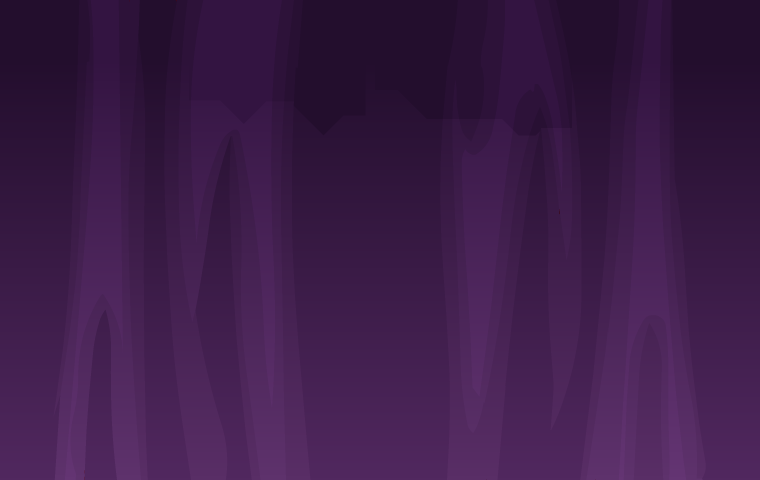
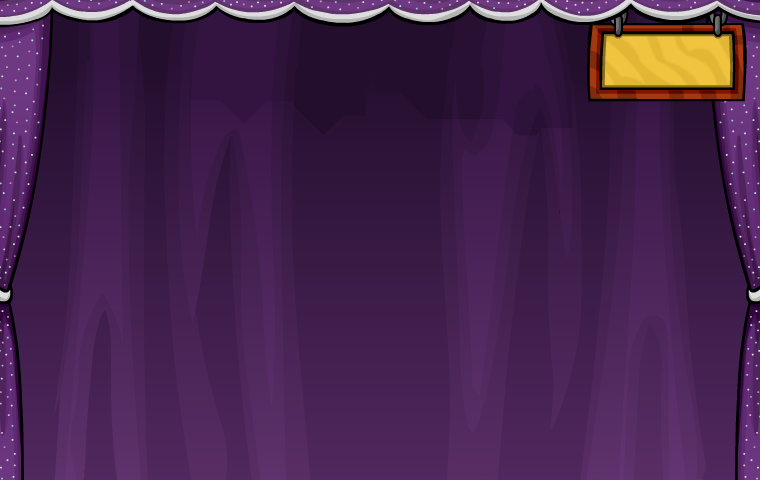
Nueva pantalla de introducción
* Nuevas imágenes de fondo con el marco completo.
* Imágenes de mejor calidad para los botones.
* Nueva enumeración para códigos de salida.
* Pequeña reestructuración de main.

Changed region(s): [[0.0, 0.0, 1.0, 1.0]]

diff --git a/src/paddle.c b/src/paddle.c
@@ -45,11 +45,11 @@
 enum {
 	IMG_TITLE,
 	
-	IMG_BACKGROUND_NORMAL,
+	IMG_TITLE_OPENING,
 	
+	IMG_BACKGROUND_NORMAL,
 	IMG_BACKGROUND_NEW_0,
 	IMG_BACKGROUND_NEW_1,
-	
 	IMG_BACKGROUND_FAIL_0,
 	IMG_BACKGROUND_FAIL_1,
 	
@@ -160,11 +160,11 @@ enum {
 const char *images_names[NUM_IMAGES] = {
 	GAMEDATA_DIR "images/title.png",
 	
-	GAMEDATA_DIR "images/normal.png",
+	GAMEDATA_DIR "images/title-opening.png",
 	
+	GAMEDATA_DIR "images/normal.png",
 	GAMEDATA_DIR "images/new-0.png",
 	GAMEDATA_DIR "images/new-1.png",
-	
 	GAMEDATA_DIR "images/fail-0.png",
 	GAMEDATA_DIR "images/fail-1.png",
 	
@@ -409,6 +409,13 @@ enum {
 	BUTTON_CLOSE
 };
 
+/* Codigos de salida */
+enum {
+	GAME_NONE = 0, /* No usado */
+	GAME_CONTINUE,
+	GAME_QUIT
+};
+
 /* La estructura principal de un puffle */
 typedef struct _Puffle{
 	struct _Puffle *next;
@@ -423,6 +430,7 @@ typedef struct _Puffle{
 } Puffle;
 
 /* Prototipos de función */
+int game_intro (void);
 int game_loop (void);
 void setup (void);
 SDL_Surface * set_video_mode(unsigned flags);
@@ -438,19 +446,110 @@ Puffle *last_puffle = NULL;
 int num_rects;
 int background_frame = 0;
 int use_sound;
+SDL_Surface *grey_screen;
 
 Mix_Chunk * sounds[NUM_SOUNDS];
 Mix_Music * mus_carnie;
 
 int main (int argc, char *argv[]) {
-	int done;
-	
 	setup ();
-	
-	done = game_loop ();
+	do {
+		if (game_intro () == GAME_QUIT) break;
+		if (game_loop () == GAME_QUIT) break;
+		/* TODO: Pantalla de "gracias por jugar */
+	} while (1 == 0);
 	
 	SDL_Quit ();
-	return 0;
+	return EXIT_SUCCESS;
+}
+
+int game_intro (void) {
+	int done;
+	SDL_Event event;
+	SDLKey key;
+	SDL_Rect dest_rect;
+	Uint32 last_time, now_time;
+	int last_button = 0, button_frame, button_pressed;
+	int handposx, handposy;
+	
+	/* Iniciar la música */
+	if (use_sound) {
+		Mix_PlayMusic (mus_carnie, -1);
+	}
+	
+	SDL_BlitSurface (images [IMG_BACKGROUND_NORMAL], NULL, screen, NULL);
+	
+	SDL_BlitSurface (grey_screen, NULL, screen, NULL);
+	
+	dest_rect.x = 107;
+	dest_rect.y = 17;
+	dest_rect.h = images [IMG_TITLE_OPENING]->h;
+	dest_rect.w = images [IMG_TITLE_OPENING]->w;
+	
+	SDL_BlitSurface (images [IMG_TITLE_OPENING], NULL, screen, &dest_rect);
+	
+	SDL_EventState (SDL_MOUSEMOTION, SDL_IGNORE);
+	
+	do {
+		last_time = SDL_GetTicks ();
+		
+		while (SDL_PollEvent(&event) > 0) {
+			/* fprintf (stdout, "Evento: %i\n", event.type);*/
+			switch (event.type) {
+				case SDL_QUIT:
+					/* Vamos a cerrar la aplicación */
+					done = GAME_QUIT;
+					break;
+				case SDL_MOUSEBUTTONDOWN:
+					/* Tengo un Mouse Down */
+					if (event.button.button == SDL_BUTTON_RIGHT) done = GAME_CONTINUE;
+					if (event.button.button != SDL_BUTTON_LEFT) break;
+					if (last_button == BUTTON_NONE) last_button = map_button_in_game (event.button.x, event.button.y);
+					break;
+				case SDL_MOUSEBUTTONUP:
+					/* Tengo un mouse Up */
+					if (event.button.button != SDL_BUTTON_LEFT) break;
+					if (last_button != BUTTON_NONE) {
+						if (map_button_in_game (event.button.x, event.button.y) == last_button) {
+							/* Mouse down y mouse up sobre el mismo botón */
+							/* Utilizar switch para muchos botones */
+							if (last_button == BUTTON_CLOSE) {
+								done = GAME_QUIT;
+							}
+							button_pressed = last_button;
+						}
+						last_button = BUTTON_NONE;
+					}
+					break;
+			}
+		}
+		
+		SDL_GetMouseState (&handposx, &handposy);
+		/* Dibujar el botón de cierre */
+		/* Posición original X:734, Y:22
+		 * Centro +- 14.05 */
+		dest_rect.x = 720; dest_rect.y = 8; dest_rect.h = images[button_frame]->h; dest_rect.w = images[button_frame]->w;
+		if (button_pressed == BUTTON_CLOSE || (last_button == BUTTON_CLOSE && map_button_in_game (handposx, handposy) == BUTTON_CLOSE)) {
+			/* Está presionado el botón del mouse, y está sobre el botón */
+			button_frame = IMG_CLOSE_BUTTON_DOWN;
+			button_pressed = BUTTON_NONE;
+		} else if (last_button == BUTTON_CLOSE) {
+			button_frame = IMG_CLOSE_BUTTON_OVER;
+		} else if (last_button == BUTTON_NONE && map_button_in_game (handposx, handposy) == BUTTON_CLOSE) {
+			button_frame = IMG_CLOSE_BUTTON_OVER;
+		} else {
+			button_frame = IMG_CLOSE_BUTTON_UP;
+		}
+		SDL_BlitSurface (images[button_frame], NULL, screen, &dest_rect);
+		
+		SDL_Flip (screen);
+		
+		now_time = SDL_GetTicks ();
+		if (now_time < last_time + FPS) SDL_Delay(last_time + FPS - now_time);
+		
+	} while (!done);
+	
+	return done;
 }
 
 int game_loop (void) {
@@ -480,12 +579,6 @@ int game_loop (void) {
 	paddle_x = handposx2 = handposx1 = handposx;
 	paddle_y = handposy2 = handposy1 = handposy;
 	
-	/* Iniciar la música */
-	if (use_sound) {
-		Mix_PlayMusic (mus_carnie, -1);
-	}
-	
-	
 	do {
 		last_time = SDL_GetTicks ();
 		
@@ -496,7 +589,7 @@ int game_loop (void) {
 			switch (event.type) {
 				case SDL_QUIT:
 					/* Vamos a cerrar la aplicación */
-					done = 1;
+					done = GAME_QUIT;
 					break;
 				case SDL_MOUSEBUTTONDOWN:
 					/* Tengo un Mouse Down */
@@ -511,7 +604,7 @@ int game_loop (void) {
 							/* Mouse down y mouse up sobre el mismo botón */
 							/* Utilizar switch para muchos botones */
 							if (last_button == BUTTON_CLOSE) {
-								done = 1;
+								done = GAME_QUIT;
 							}
 							button_pressed = last_button;
 						}
@@ -615,7 +708,7 @@ int game_loop (void) {
 		} while (thispuffle != NULL);
 		
 		if (first_puffle == NULL) {
-			done = 1;
+			done = GAME_CONTINUE;
 			/* TODO: Fin del juego, todos los puffles perdidos */
 			break;
 		}
@@ -798,7 +891,7 @@ void setup (void) {
 		exit (1);
 	}
 	
-	use_sound = 1;
+	use_sound = 0;
 	if (SDL_InitSubSystem (SDL_INIT_AUDIO) < 0) {
 		fprintf (stdout,
 			"\nAdvertencia: No se pudo inicializar el sistema de audio\n"
@@ -841,6 +934,12 @@ void setup (void) {
 		images[g] = image;
 		/* TODO: Mostrar la carga de porcentaje */
 	}
+	
+	/* Pre-Dibujar la pantalla gris */
+	grey_screen = SDL_CreateRGBSurface (SDL_SWSURFACE | SDL_SRCALPHA, 760, 480, 32, 0, 0, 0, 0);
+	SDL_FillRect (grey_screen, NULL,
+	              SDL_MapRGB (grey_screen->format, 0, 0, 0)); /* Negro */
+	SDL_SetAlpha (grey_screen, SDL_SRCALPHA, 128); /* Alpha al 50 % */
 	
 	/* TODO: Inicializar la TTF */
 	
